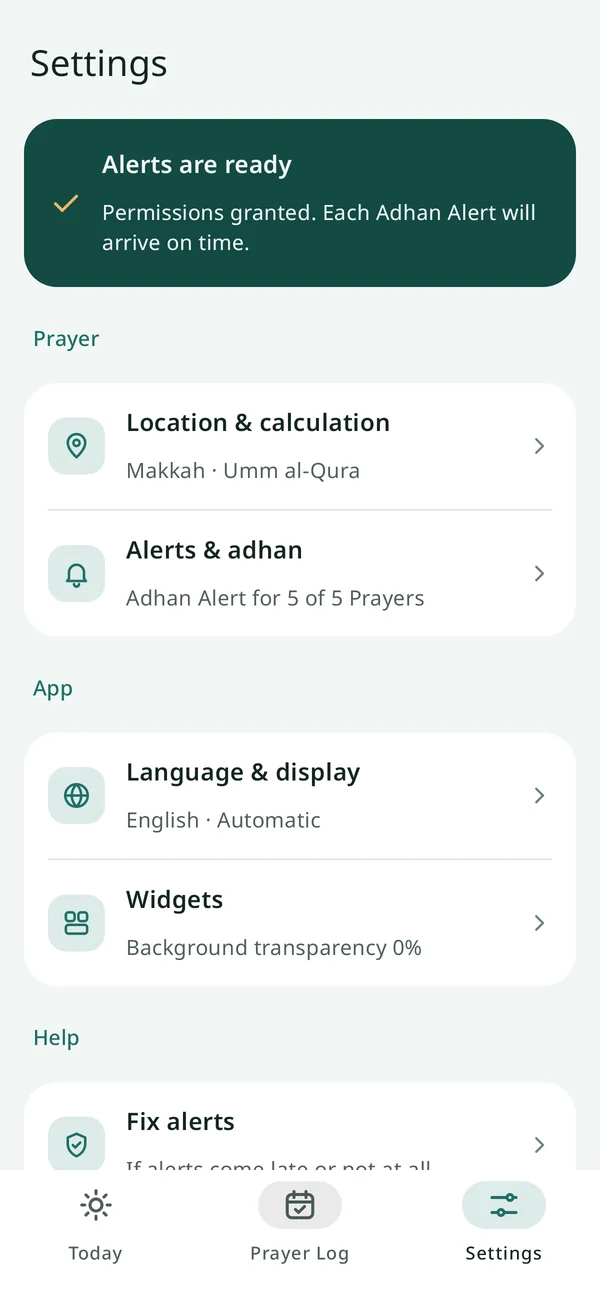
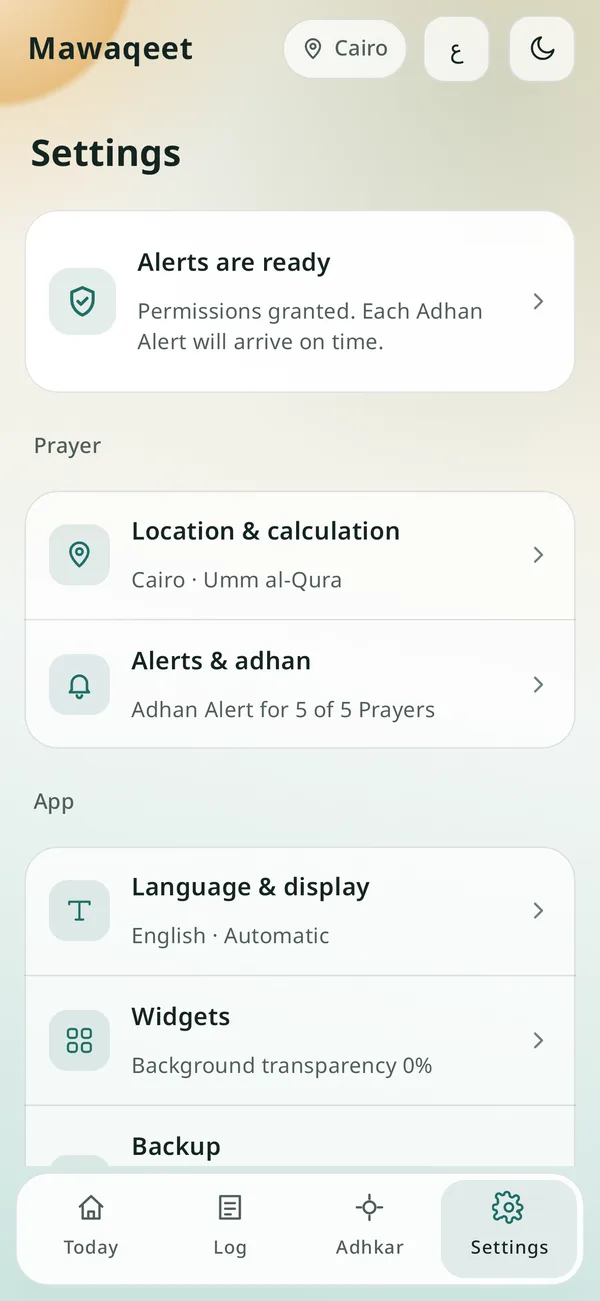
Site: screenshots and widgets from 1.4.0
Today, the Prayer Log, Alerts and Settings in the new design, three new
screens (Tasbeeh, Qibla, Hijri calendar), and the widgets re-rendered with
the 1.4 backgrounds, in Arabic and English.

Claude-Session: https://claude.ai/code/session_01VfDnj8GgQ3kjmRE5qAL473

diff --git a/site/index.html b/site/index.html
@@ -48,7 +48,7 @@
           <p class="note">التطبيق الآن في مرحلة الاختبار. تريد أن تجرّبه قبل الجميع؟ راسلنا على <a href="mailto:contact@nileorbit.com" style="color:#f2b65e">contact@nileorbit.com</a></p>
         </div>
         <figure class="phone">
-          <img src="/img/ar-home.webp" width="600" height="1290" alt="شاشة مواقيت الرئيسية: الصلاة القادمة الظهر مع العدّ التنازلي، ومواقيت اليوم" fetchpriority="high">
+          <img src="/img/ar-home.webp" width="600" height="1301" alt="شاشة مواقيت الرئيسية: قوس يعدّ للصلاة القادمة المغرب، ومواقيت اليوم كخط زمني" fetchpriority="high">
         </figure>
       </div>
     </div>
@@ -100,16 +100,28 @@
         <p class="sub">صور حقيقية من مواقيت، كما تظهر على الهاتف.</p>
         <div class="shots">
           <figure class="shot">
-            <div class="phone"><img src="/img/ar-log.webp" width="600" height="1290" alt="" loading="lazy"></div>
-            <figcaption><strong>سجل الصلاة</strong>أسبوعك صلاةً صلاة، وكم صلاة أدّيت منه.</figcaption>
+            <div class="phone"><img src="/img/ar-log.webp" width="600" height="1301" alt="" loading="lazy"></div>
+            <figcaption><strong>سجل الصلاة</strong>أسبوعك يومًا يومًا، وكم صلاة أدّيت منه.</figcaption>
           </figure>
           <figure class="shot">
-            <div class="phone"><img src="/img/ar-alerts.webp" width="600" height="1290" alt="" loading="lazy"></div>
+            <div class="phone"><img src="/img/ar-alerts.webp" width="600" height="1301" alt="" loading="lazy"></div>
             <figcaption><strong>التنبيهات</strong>لكل صلاة صوتها: تكبيرة قصيرة أو أذان كامل أو صامت، مع تذكير قبلها.</figcaption>
           </figure>
           <figure class="shot">
-            <div class="phone"><img src="/img/ar-settings.webp" width="600" height="1290" alt="" loading="lazy"></div>
+            <div class="phone"><img src="/img/ar-settings.webp" width="600" height="1301" alt="" loading="lazy"></div>
             <figcaption><strong>الإعدادات</strong>طريقة الحساب ومذهب العصر والمدينة والمظهر والأدوات في مكان واحد.</figcaption>
+          </figure>
+          <figure class="shot">
+            <div class="phone"><img src="/img/ar-tasbeeh.webp" width="600" height="1301" alt="" loading="lazy"></div>
+            <figcaption><strong>السبحة</strong>زر التسبيح تحت إصبعك والعدد ظاهر بجانبه، لليد اليمنى أو اليسرى.</figcaption>
+          </figure>
+          <figure class="shot">
+            <div class="phone"><img src="/img/ar-qibla.webp" width="600" height="1301" alt="" loading="lazy"></div>
+            <figcaption><strong>القبلة</strong>بوصلة تدلّك على الاتجاه، والمسافة إلى مكة، والمساجد القريبة.</figcaption>
+          </figure>
+          <figure class="shot">
+            <div class="phone"><img src="/img/ar-calendar.webp" width="600" height="1301" alt="" loading="lazy"></div>
+            <figcaption><strong>التقويم الهجري</strong>الشهر كاملًا مع المناسبات وأيام الصيام المسنونة.</figcaption>
           </figure>
         </div>
       </div>
@@ -129,11 +141,11 @@
             <figcaption><strong>الصلاة القادمة ٢×٢ و١×١</strong>العدّ التنازلي في مربّع، وحلقة صغيرة بمقاس خلية واحدة.</figcaption>
           </figure>
           <figure class="widget">
-            <div class="wall"><img src="/img/ar-w-today-4x2.webp" width="720" height="405" alt="" loading="lazy" class="w-4x2"></div>
+            <div class="wall"><img src="/img/ar-w-today-4x2.webp" width="720" height="408" alt="" loading="lazy" class="w-4x2"></div>
             <figcaption><strong>مواقيت اليوم ٤×٢</strong>مسار اليوم من الفجر إلى العشاء، وأين أنت منه الآن.</figcaption>
           </figure>
           <figure class="widget">
-            <div class="wall"><img src="/img/ar-w-today-4x1.webp" width="720" height="202" alt="" loading="lazy" class="w-4x1"><img src="/img/ar-w-date-4x1.webp" width="720" height="135" alt="" loading="lazy" class="w-4x1"></div>
+            <div class="wall"><img src="/img/ar-w-today-4x1.webp" width="720" height="201" alt="" loading="lazy" class="w-4x1"><img src="/img/ar-w-date-4x1.webp" width="720" height="135" alt="" loading="lazy" class="w-4x1"></div>
             <figcaption><strong>مواقيت اليوم ٤×١ وشريط التاريخ</strong>المواقيت في سطر، والتاريخ الهجري والميلادي في سطر.</figcaption>
           </figure>
           <figure class="widget">

diff --git a/site/en/index.html b/site/en/index.html
@@ -48,7 +48,7 @@
           <p class="note">Mawaqeet is in testing now. Want to try it early? Write to <a href="mailto:contact@nileorbit.com" style="color:#f2b65e">contact@nileorbit.com</a></p>
         </div>
         <figure class="phone">
-          <img src="/img/en-home.webp" width="600" height="1290" alt="Mawaqeet's home screen: the next prayer, Dhuhr, with its countdown, and today's prayer times" fetchpriority="high">
+          <img src="/img/en-home.webp" width="600" height="1301" alt="Mawaqeet's home screen: an arc counting down to the next prayer, Maghrib, and today's prayer times as a timeline" fetchpriority="high">
         </figure>
       </div>
     </div>
@@ -100,16 +100,28 @@
         <p class="sub">Real screens from Mawaqeet, as they look on the phone.</p>
         <div class="shots">
           <figure class="shot">
-            <div class="phone"><img src="/img/en-log.webp" width="600" height="1290" alt="" loading="lazy"></div>
+            <div class="phone"><img src="/img/en-log.webp" width="600" height="1301" alt="" loading="lazy"></div>
             <figcaption><strong>Prayer log</strong>Your week prayer by prayer, and how many you've prayed.</figcaption>
           </figure>
           <figure class="shot">
-            <div class="phone"><img src="/img/en-alerts.webp" width="600" height="1290" alt="" loading="lazy"></div>
+            <div class="phone"><img src="/img/en-alerts.webp" width="600" height="1301" alt="" loading="lazy"></div>
             <figcaption><strong>Alerts</strong>A sound for each prayer: a short takbir, the full adhan, or silent, with a reminder beforehand.</figcaption>
           </figure>
           <figure class="shot">
-            <div class="phone"><img src="/img/en-settings.webp" width="600" height="1290" alt="" loading="lazy"></div>
+            <div class="phone"><img src="/img/en-settings.webp" width="600" height="1301" alt="" loading="lazy"></div>
             <figcaption><strong>Settings</strong>Calculation method, Asr convention, city, appearance and widgets in one place.</figcaption>
+          </figure>
+          <figure class="shot">
+            <div class="phone"><img src="/img/en-tasbeeh.webp" width="600" height="1301" alt="" loading="lazy"></div>
+            <figcaption><strong>Tasbeeh</strong>The count button under your thumb with the total beside it, for either hand.</figcaption>
+          </figure>
+          <figure class="shot">
+            <div class="phone"><img src="/img/en-qibla.webp" width="600" height="1301" alt="" loading="lazy"></div>
+            <figcaption><strong>Qibla</strong>A compass to the Qibla, the distance to Makkah, and nearby mosques.</figcaption>
+          </figure>
+          <figure class="shot">
+            <div class="phone"><img src="/img/en-calendar.webp" width="600" height="1301" alt="" loading="lazy"></div>
+            <figcaption><strong>Hijri calendar</strong>The whole month with occasions and sunnah fasting days.</figcaption>
           </figure>
         </div>
       </div>
@@ -129,11 +141,11 @@
             <figcaption><strong>Next prayer 2×2 and 1×1</strong>The countdown in a square, and a small ring in a single cell.</figcaption>
           </figure>
           <figure class="widget">
-            <div class="wall"><img src="/img/en-w-today-4x2.webp" width="720" height="405" alt="" loading="lazy" class="w-4x2"></div>
+            <div class="wall"><img src="/img/en-w-today-4x2.webp" width="720" height="408" alt="" loading="lazy" class="w-4x2"></div>
             <figcaption><strong>Today's times 4×2</strong>The day's path from Fajr to Isha, and where you are on it now.</figcaption>
           </figure>
           <figure class="widget">
-            <div class="wall"><img src="/img/en-w-today-4x1.webp" width="720" height="202" alt="" loading="lazy" class="w-4x1"><img src="/img/en-w-date-4x1.webp" width="720" height="135" alt="" loading="lazy" class="w-4x1"></div>
+            <div class="wall"><img src="/img/en-w-today-4x1.webp" width="720" height="201" alt="" loading="lazy" class="w-4x1"><img src="/img/en-w-date-4x1.webp" width="720" height="135" alt="" loading="lazy" class="w-4x1"></div>
             <figcaption><strong>Today's times 4×1 and date strip</strong>The times on one line, and the Hijri and Gregorian date on another.</figcaption>
           </figure>
           <figure class="widget">
